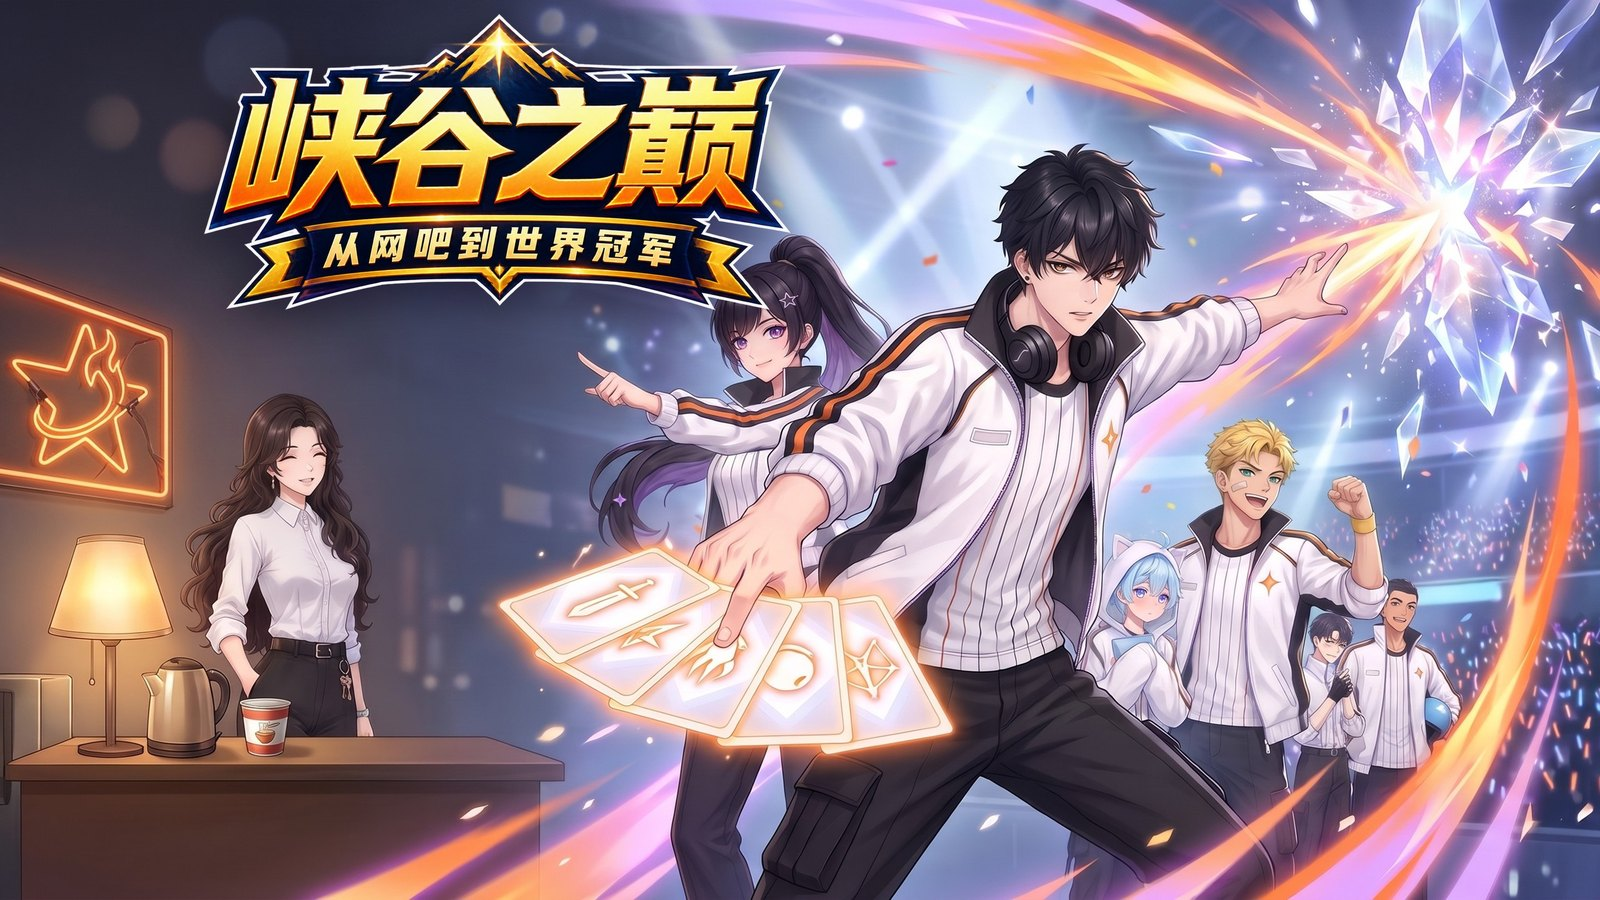
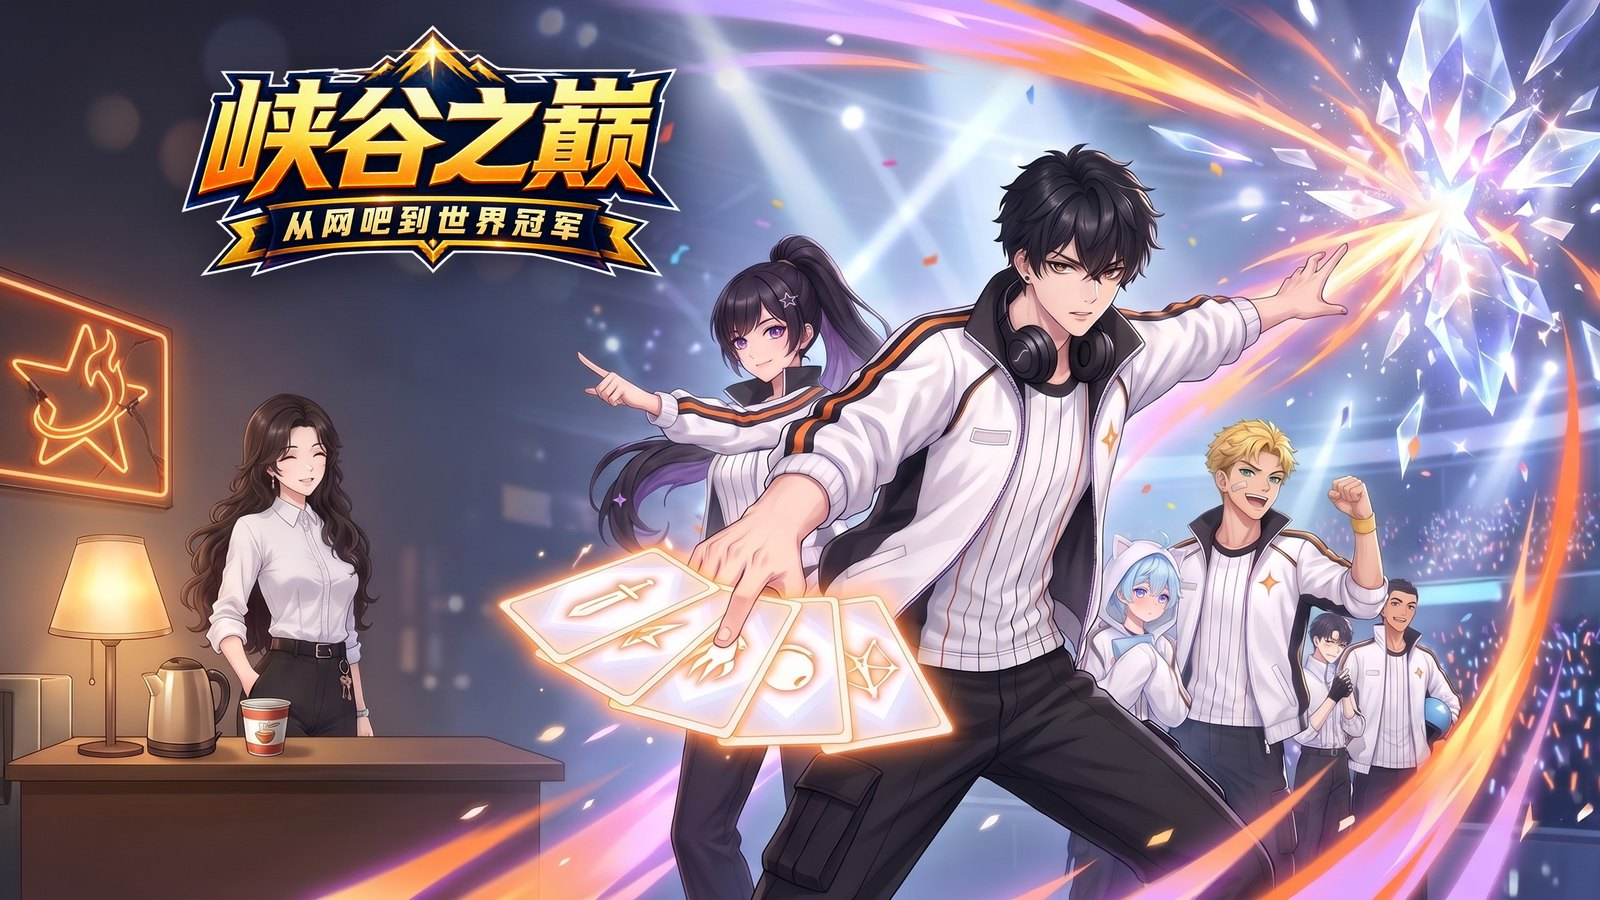
xiaguzhidian review-1111: 字标避开女主、1:1 缩小

Changed region(s): [[0.0938, 0.0311, 0.5, 0.3733]]

diff --git a/xiaguzhidian/review-1111/index.html b/xiaguzhidian/review-1111/index.html
@@ -152,15 +152,15 @@
 <tr><th>当前</th><td>从网吧赛打到世界冠军！破网吧变旗舰电竞馆</td></tr>
 <tr><th>改成</th><td><strong>破网吧逆袭电竞馆，肉鸽卡牌战术冲击世界冠军</strong>（21 字，上限 25）</td></tr>
 </table>
-<h3>16:9 宣传图：游戏名放大（字标宽 730 → 940 px，面积约 +66%）</h3>
+<h3>16:9 宣传图：游戏名放大（字标宽 730 → 800 px，面积约 +20%）</h3>
 <div class="grid2">
   <div><img src="img/banner_16x9.jpg"><p class="note">当前</p></div>
-  <div><img src="img/banner_16x9_new.jpg"><p class="note">新：底图和线上逐像素一致，只换字标；左边贴 4:3 安全线、顶到上沿，右下角刚碰到马尾女孩的发梢、不压脸（再大就压到头）</p></div>
+  <div><img src="img/banner_16x9_new.jpg"><p class="note">新：底图和线上逐像素一致，只换字标；字标整体在马尾女孩左边（右边界 x 1090，她的头发从 ~1150 开始），不压脸、不像她头上的帽子；左侧只有外框越过 4:3 安全线，字在安全区内</p></div>
 </div>
-<h3>1:1 宣传图：游戏名放大（字标宽 ~894 → 1380 px，面积约 +138%）</h3>
+<h3>1:1 宣传图：游戏名放大（字标宽 ~894 → 1200 px，面积约 +80%）</h3>
 <div class="grid2">
   <div><img src="img/square_1x1.jpg"><p class="note">当前</p></div>
-  <div><img src="img/square_1x1_new.jpg"><p class="note">新：同中心更大的字标盖住旧字标（逐处检查无残边），下沿停在主角头发上方</p></div>
+  <div><img src="img/square_1x1_new.jpg"><p class="note">新：同中心更大的字标盖住旧字标（逐处检查无残边），上下留白，离主角头发约 130 px</p></div>
 </div>
 <p class="note">这几项和宣传片 v4 一起，计划等 11-12 00:01 定时版上线后建新版本一起提交，不动今晚的定时版。</p>
 </section>
